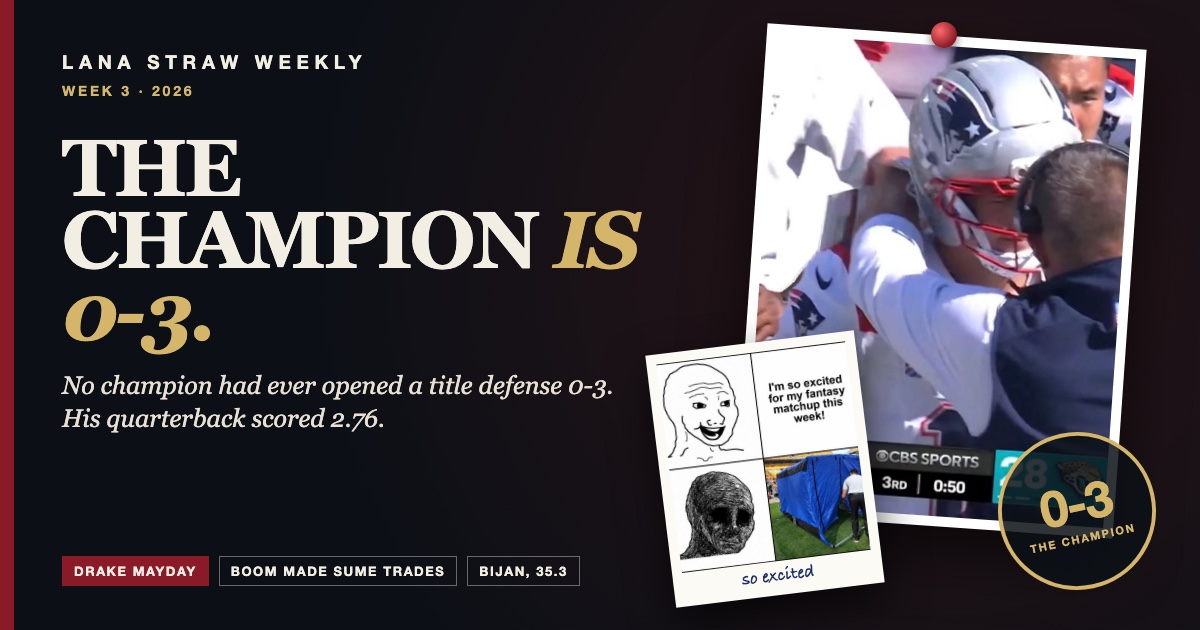
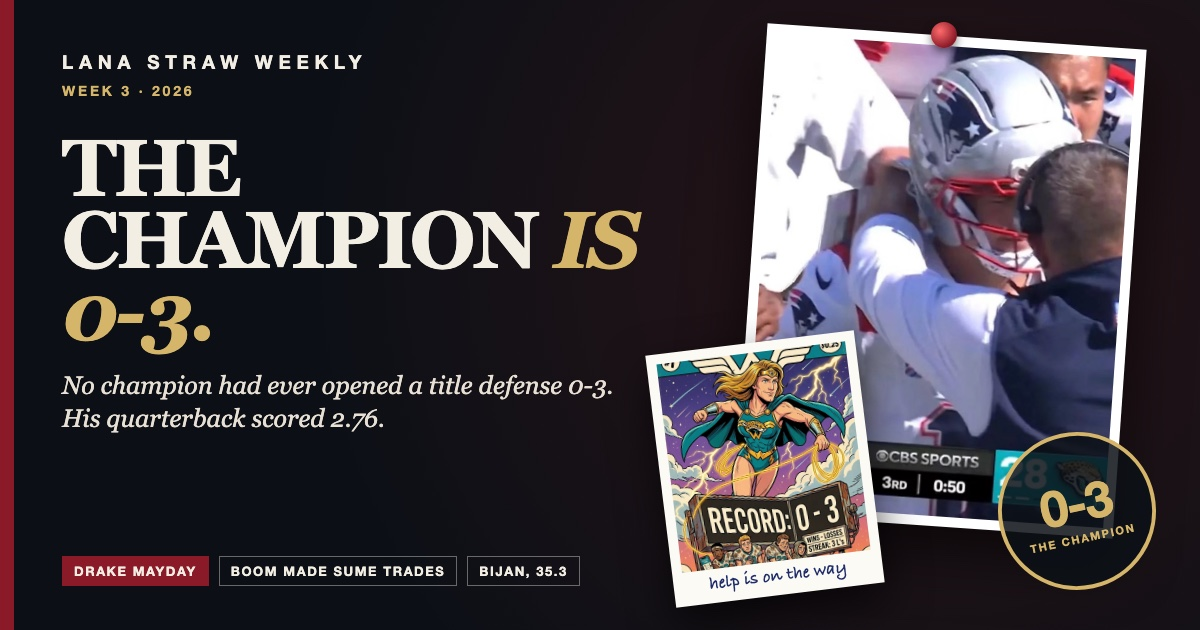
Republish Week 3 from the season build

Changed region(s): [[0.5242, 0.5429, 0.74, 0.9349]]

diff --git a/index.html b/index.html
@@ -17,7 +17,7 @@
 <meta property="og:image:type" content="image/jpeg"/>
 <meta property="og:image:width" content="1200"/>
 <meta property="og:image:height" content="630"/>
-<meta property="og:image:alt" content="Drake Maye on the sideline, Patriots down 28-3, beside a two-panel meme of fantasy despair"/>
+<meta property="og:image:alt" content="Drake Maye on the sideline, Patriots down 28-3, with a comic-book Polaroid of a long-haired quarterback in a Wonder Woman-style costume flying to the rescue"/>
 <meta name="twitter:card" content="summary_large_image"/>
 <meta name="twitter:title" content="The Champion Is 0-3."/>
 <meta name="twitter:description" content="No champion in league history had opened a title defense 0-3. Drake Maye scored 2.76, the champion spent $34 on a tight end and traded him by breakfast, and the Toilet Bowl is starting to look familiar. Plus Boom made sume trades, Bijan scored 35.3, and the knockout chopped the $1,000 club."/>
@@ -61,7 +61,7 @@
    "image": [
     "https://j-r-j.github.io/lana-straw-week3-2026/og-image.jpg",
     "https://j-r-j.github.io/lana-straw-week3-2026/assets/w3_maye.jpg",
-    "https://j-r-j.github.io/lana-straw-week3-2026/assets/w3_wojak.jpg"
+    "https://j-r-j.github.io/lana-straw-week3-2026/assets/w3_lawrence_wonder.jpg"
    ],
    "datePublished": "2026-09-30",
    "inLanguage": "en-US",

diff --git a/magazine.html b/magazine.html
@@ -17,7 +17,7 @@
 <meta property="og:image:type" content="image/jpeg"/>
 <meta property="og:image:width" content="1200"/>
 <meta property="og:image:height" content="630"/>
-<meta property="og:image:alt" content="Drake Maye on the sideline, Patriots down 28-3, beside a two-panel meme of fantasy despair"/>
+<meta property="og:image:alt" content="Drake Maye on the sideline, Patriots down 28-3, with a comic-book Polaroid of a long-haired quarterback in a Wonder Woman-style costume flying to the rescue"/>
 <meta name="twitter:card" content="summary_large_image"/>
 <meta name="twitter:title" content="The Champion Is 0-3."/>
 <meta name="twitter:description" content="No champion in league history had opened a title defense 0-3. Drake Maye scored 2.76, the champion spent $34 on a tight end and traded him by breakfast, and the Toilet Bowl is starting to look familiar. Plus Boom made sume trades, Bijan scored 35.3, and the knockout chopped the $1,000 club."/>
@@ -61,7 +61,7 @@
    "image": [
     "https://j-r-j.github.io/lana-straw-week3-2026/og-image.jpg",
     "https://j-r-j.github.io/lana-straw-week3-2026/assets/w3_maye.jpg",
-    "https://j-r-j.github.io/lana-straw-week3-2026/assets/w3_wojak.jpg"
+    "https://j-r-j.github.io/lana-straw-week3-2026/assets/w3_lawrence_wonder.jpg"
    ],
    "datePublished": "2026-09-30",
    "inLanguage": "en-US",
